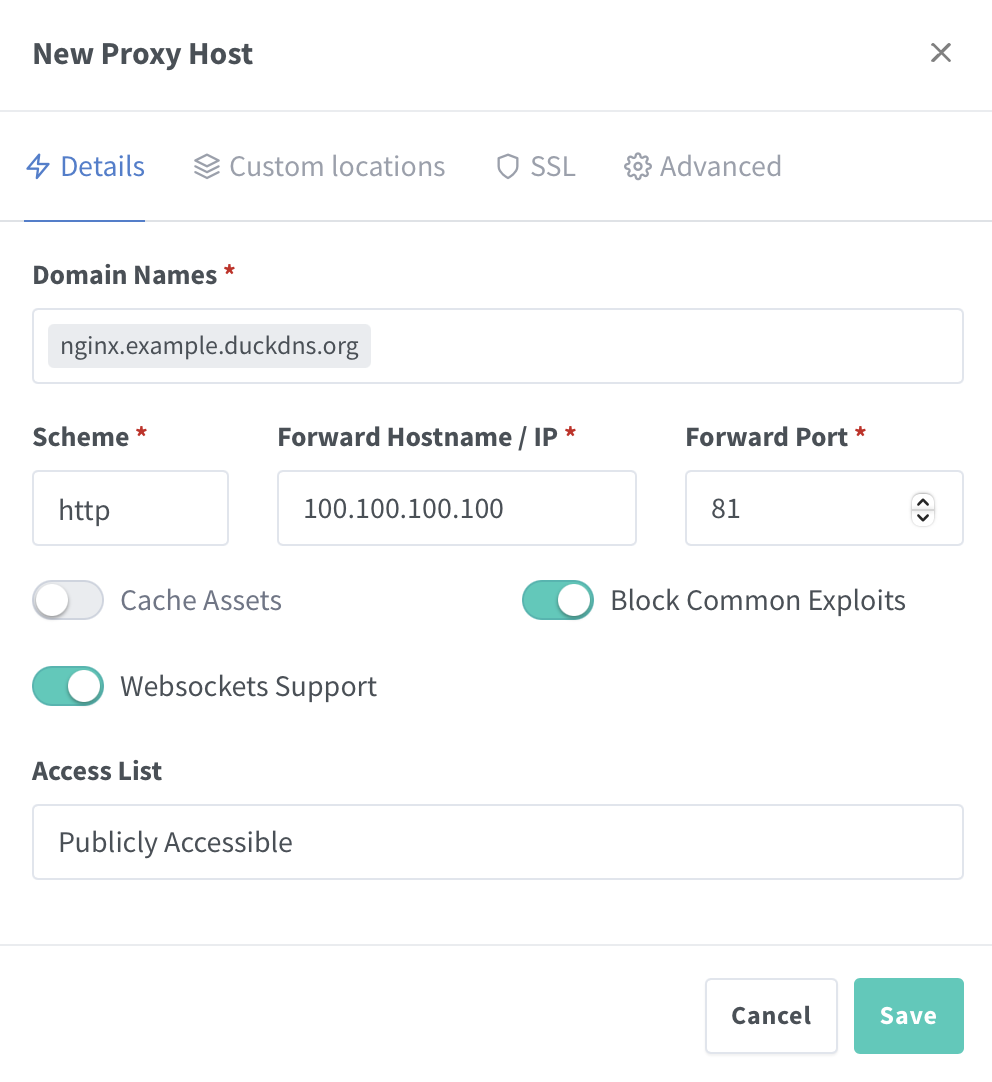
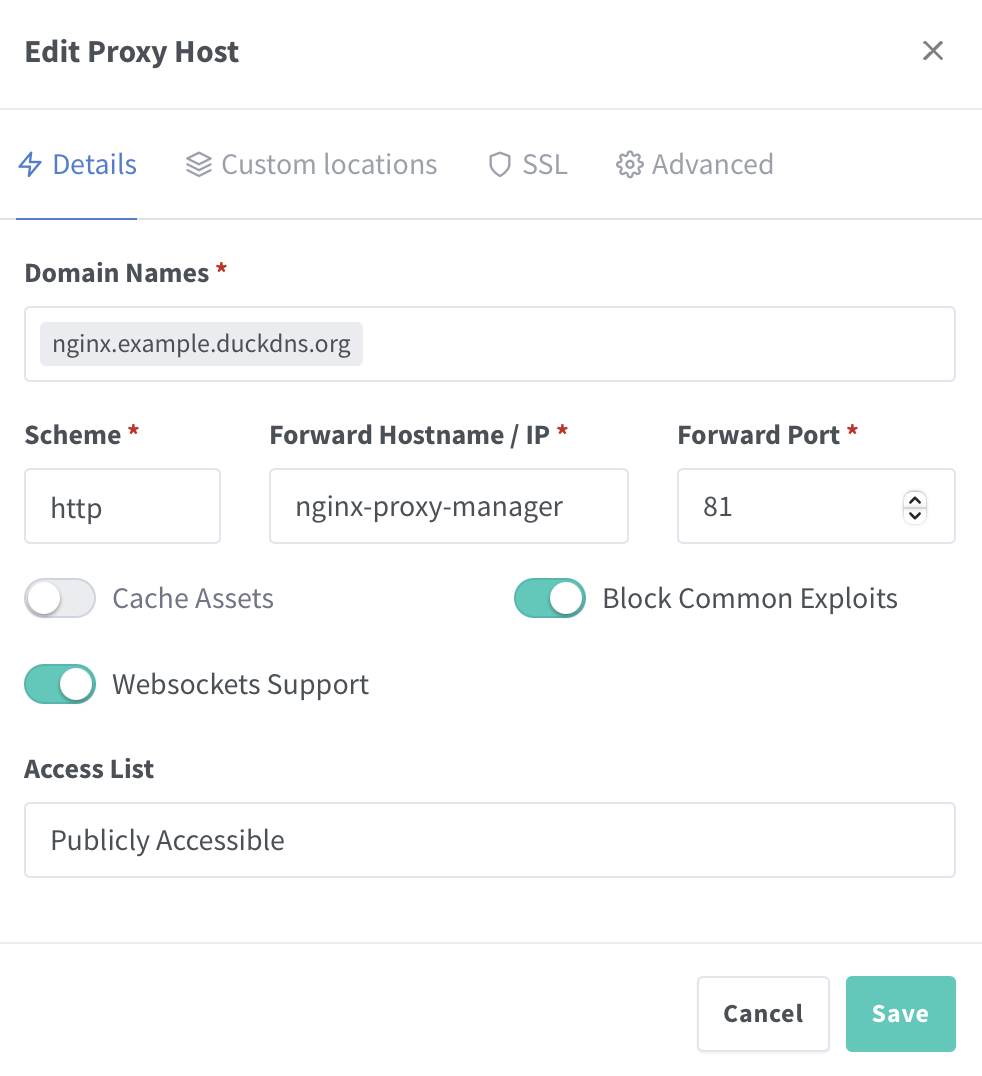
Updated to use custom docker network to manager 80 & 443 network traffic ingress

diff --git a/README.md b/README.md
@@ -1,5 +1,12 @@
 # 📦 Nginx Proxy Manager Docker Compose Stack
 
+[![MIT License](https://img.shields.io/github/license/Vantasin/Nginx-Proxy-Manager?style=flat-square)](LICENSE)
+[![Docker Compose](https://img.shields.io/badge/Docker-Compose-blue?logo=docker)](https://www.docker.com/)
+[![ZFS](https://img.shields.io/badge/ZFS-OpenZFS-blue?style=flat-square)](https://openzfs.org/)
+
+[![Tailscale](https://img.shields.io/badge/Tailscale-Enabled-blue?logo=tailscale&logoColor=white)](https://tailscale.com)
+[![Nginx Proxy Manager](https://img.shields.io/badge/Nginx_Proxy_Manager-Reverse%20Proxy-orange?logo=nginx&logoColor=white)](https://nginxproxymanager.com)
+
 This repository provides a self-contained Docker Compose stack to run [Nginx Proxy Manager](https://nginxproxymanager.com/), a modern UI for managing Nginx-based reverse proxies with automatic SSL via Let's Encrypt.
 
 It supports optional ZFS integration for advanced users who wish to mount data volumes onto a ZFS dataset. The stack remains fully usable without ZFS.
@@ -16,8 +23,6 @@ tank/
 │   │       ├── docker-compose.yml  # Main Docker Compose config
 │   │       ├── .env                # Runtime environment variables and secrets (gitignored!)
 │   │       ├── env.example         # Example .env file for reference
-│   │       ├── env.template        # Optional template
-│   │       ├── .woodpecker.yml     # CI/CD pipeline definition for auto-deploy
 │   │       ├── README.md           # This file
 │   │       └── images/             # Images used in the README.md
 │   └── data/
@@ -56,7 +61,7 @@ with your actual pool name.
    git clone https://github.com/Vantasin/Nginx-Proxy-Manager.git .
    ```
 
-2. **Create the runtime data directory** (optional)
+2. **Create the runtime data directory**
 
    If using ZFS:
    ```bash
@@ -78,12 +83,19 @@ with your actual pool name.
    sudo chmod 600 .env
    ```
 
-   > Alternatively generate the `.env` file using the `env.template` template with Woodpecker CI's `.woodpecker.yml`.
+> **Note:** You only need to change the `.env` file if you are not using the default storage path.
 
-4. **Start Nginx Proxy Manager**
+4. **Create the custom user-defined external network**
 
    ```bash
-   docker compose up -d
+   sudo docker network create npm_proxy
+   ```
+
+
+5. **Start Nginx Proxy Manager**
+
+   ```bash
+   sudo docker compose up -d
    ```
 
 ---
@@ -114,17 +126,19 @@ Use the following default credentials to log in for the first time:
 
 To expose **Nginx Proxy Manager** over HTTPS on your own DuckDNS domain (e.g. `example.duckdns.org`), follow these steps:
 
-### 1. Create your DuckDNS entry  
-Sign up at [DuckDNS.org](https://www.duckdns.org/) and create a new subdomain (e.g. `example.duckdns.org`).  
+### 1. Create your DuckDNS entry
+Sign up at [DuckDNS.org](https://www.duckdns.org/) and create a new subdomain (e.g. `example.duckdns.org`).
 
-### 2. Obtain a wildcard Let’s Encrypt certificate  
-1. In the NPM UI, go to **SSL → Add Let’s Encrypt Certificate**.  
-2. Under **Domain Names**, enter your `*` wild card and duckdns domains eg.:  
+> **Note:** if you want to access your  self hosted services outside of your Local Network Area (LAN) without port forwarding you can use a VPN like [Tailscale](https://tailscale.com/download/linux). You simply need to install Tailscale on the host server, create a free account and point your domain to your Host's Tailscale IP.
+
+### 2. Obtain a wildcard Let’s Encrypt certificate
+1. In the NPM UI, go to **SSL → Add Let’s Encrypt Certificate**.
+2. Under **Domain Names**, enter your `*` wild card and duckdns domains eg.:
 `*.example.duckdns.org` & `example.duckdns.org`
-3. Supply your email address and toggle **Use a DNS Challenge**.  
-4. Select **DuckDNS** as the DNS provider and paste your DuckDNS token into **Credentials File Content** ensure there are no extra spaces.  
-5. Leave **Propagation Seconds** blank (or increase if you see DNS timeout errors).  
-6. Agree to the Terms and click **Save**.  
+3. Supply your email address and toggle **Use a DNS Challenge**.
+4. Select **DuckDNS** as the DNS provider and paste your DuckDNS token into **Credentials File Content** ensure there are no extra spaces.
+5. Leave **Propagation Seconds** blank (or increase if you see DNS timeout errors).
+6. Agree to the Terms and click **Save**.
 
 <p align="center">
   <img
@@ -138,20 +152,20 @@ Sign up at [DuckDNS.org](https://www.duckdns.org/) and create a new subdomain (e
 
 > **Note:** you can use any domain you want, we just went with DuckDNS because it is free.
 
-### 3. Add Nginx Proxy Manager itself as a secure proxy host  
-1. In the NPM UI, click **Proxy Hosts → Add Proxy Host**.  
-2. Under **Details**:  
-    - **Domain Names**: `nginx.example.duckdns.org`  
-    - **Scheme**: `http`  
-    - **Forward Hostname / IP**: the local IP of your NPM container (e.g. your host IP address)  
-    - **Forward Port**: `81`  
-3. Switch to the **SSL** tab:  
-    - Check **Enable SSL**  
-    - From the **Certificate** dropdown select your `*.example.duckdns.org` certificate  
-    - Enable **Force SSL** to redirect all HTTP → HTTPS  
+### 3. Add Nginx Proxy Manager itself as a proxy host
+1. In the NPM UI, click **Proxy Hosts → Add Proxy Host**.
+2. Under **Details**:
+    - **Domain Names**: `nginx.example.duckdns.org`
+    - **Scheme**: `http`
+    - **Forward Hostname / IP**: `nginx-proxy-manager` (the Nginx Proxy Manager container name)
+    - **Forward Port**: `81`
+3. Switch to the **SSL** tab:
+    - Check **Enable SSL**
+    - From the **Certificate** dropdown select your `*.example.duckdns.org` certificate
+    - Enable **Force SSL** to redirect all HTTP → HTTPS
 4. Click **Save**.
 
-> **Note:** if you want to self host your services and access them outside of your Local Network Area (LAN) without port forwarding you can use a VPN like [Tailscale](https://tailscale.com/download/linux) that provides Network Address Translation (NAT) Traversal. You simply need to install Tailscale on the host server, create a free account and use your host server's Tailscale IP in the **Forward Hostname / IP** field.
+> **Note:** After adding the Nginx Proxy Manager admin GUI as a proxy host you should comment out or delete the line `- "81:81" # NPM Admin` in your `docker-compose.yml` file. This means all traffic to your Nginx Proxy Manager admin GUI has to be routed through Nginx Proxy Manager.
 
 <p align="center">
   <img
@@ -165,26 +179,11 @@ You can now visit your NPM dashboard securely at `https://nginx.example.duckdns.
 
 ---
 
-## 🚀 Continuous Deployment with Woodpecker
-
-This project includes a `.woodpecker.yml` pipeline for automated deployment using [Woodpecker CI](https://woodpecker-ci.org/).
-
-When changes are pushed to the Git repository:
-1. The pipeline is triggered by the Woodpecker server.
-2. The `.env` file is rendered from `env.template` using `envsubst`.
-3. The Docker Compose stack is restarted to apply updates.
-
-> ⚠ **Note:** the CI pipeline may break if Woodpecker CI depends on Nginx Proxy Manager, eg. Nginx Proxy Manager is the proxy host for the Woodpecker CI service.
-
----
-
 ## 🙏 Acknowledgments
 
 - [ChatGPT](https://openai.com/chatgpt) for assistance in generating setup scripts and templates.
 - [Docker](https://www.docker.com/) for container orchestration and runtime.
-- [`envsubst`](https://man7.org/linux/man-pages/man1/envsubst.1.html) for lightweight environment variable substitution in template files.
 - [jc21/nginx-proxy-manager](https://hub.docker.com/r/jc21/nginx-proxy-manager) the official Docker image used in this stack.
 - [Nginx Proxy Manager](https://nginxproxymanager.com/) for making reverse proxy management accessible via a clean UI.
 - [Tailscale](https://tailscale.com/) for providing seamless, secure mesh networking with automatic NAT traversal using WireGuard.
-- [Woodpecker CI](https://woodpecker-ci.org/) for lightweight, self-hosted continuous integration.
 - [ZFS](https://openzfs.org/) for advanced local filesystem features, dataset organization, and snapshotting.
